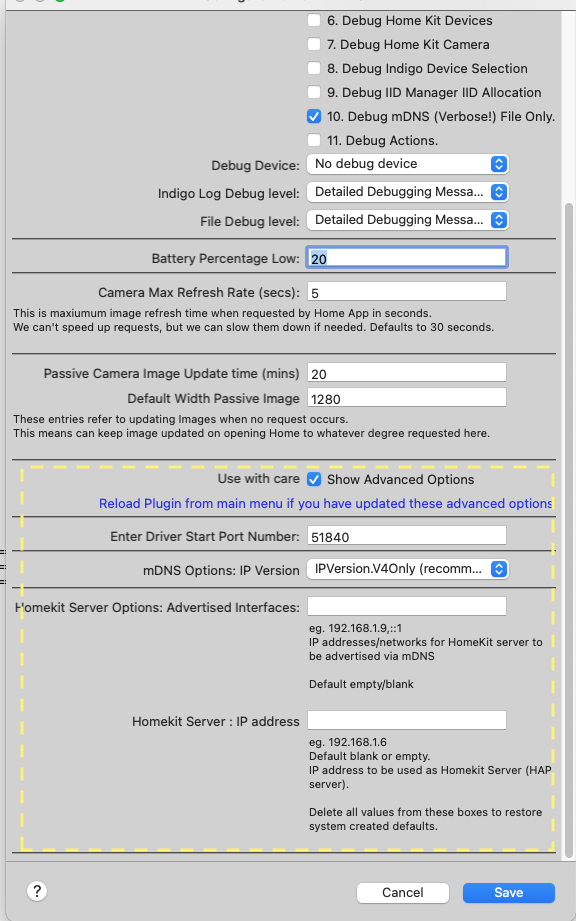
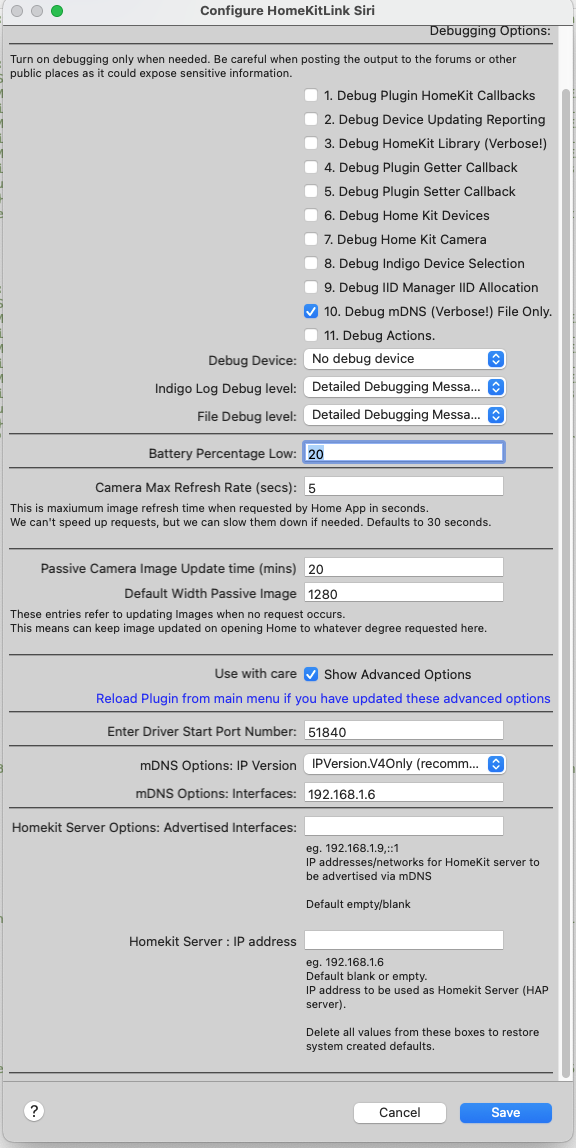
0.7.50 Unhide mDNS zeroconf server address selection

Changed region(s): [[0.0, 0.0, 1.0, 1.0], [0.2188, 0.76, 0.375, 0.7904], [0.2812, 0.1824, 0.3125, 0.2128]]

diff --git a/HomeKitLink-Siri.indigoPlugin/Contents/Server Plugin/plugin.py b/HomeKitLink-Siri.indigoPlugin/Contents/Server Plugin/plugin.py
@@ -336,7 +336,10 @@ class Plugin(indigo.PluginBase):
             self.select_ip_version = IPVersion.V4Only
             self.logger.warning("Select_IP: Advanced plugin Properties in error, using default, please check plugin Config")
         self.logger.debug(f"mDNS IP version selected:      {self.select_ip_version}")
-        interfaces = self.pluginPrefs.get('mDNSinterfaces', "")
+
+        interfaces = self.pluginPrefs.get("mDNSinterfaces", "")
+
+        self.logger.debug(f"mDNS Interfaces to use:         {interfaces}")
         self.logger.debug(f"System IPv6 support:           {_HAS_IPV6}")
 
         # The HAP server is fundamentally IPv4-only:
@@ -371,7 +374,7 @@ class Plugin(indigo.PluginBase):
         else:
             self.select_interfaces = None
             self.logger.warning("Select_Interface: Advanced plugin Properties in error, using default, please check plugin Config")
-
+        self.logger.debug(f"mDNS Interface List to use: {self.select_interfaces}")
         #self.apple_2p2 = self.pluginPrefs.get('mDNSapple_p2p', False)
         self.apple_2p2 = False
         if self.apple_2p2: